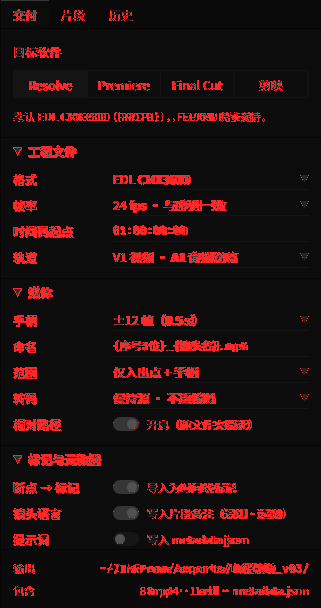
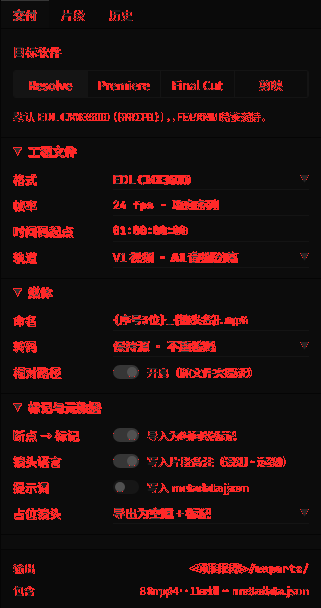
docs(replica): 交付面板按 2026-10-08 新稿重新比对——8.27%，非文字区全 0
基准图从新稿重渲染（旧的那张是旧稿裁的，不能用）。块框仍是 (1278, 67) 321×608，
面板总高由上半区 flex 余量撑出，没随内容变短而变。

| 区域 | 差异 |
|---|---|
| 页签条右侧空白 / 面板左右内边距 / 分段控件框 / 检查块露出的空档 | **0%** |
| 四个开关 | **0.36%** |
| 整块 321×608 | **8.27%**（旧稿那版 8.75%） |

四条分隔线落点整体上移 52px（137 / 278 / 393 / 534），与稿逐行相同。

±1px 平移要说清楚：dx−1 是 8.19%，比 dx0 的 8.27% 好 0.08pp。那 0.08pp **全来自
回落中文字体的字形墨迹右偏约 1px**——同一次平移会把四个开关从 0.36% 打到 7.78%。
结构锚点看图形不看字形墨迹，所以取 dx0。

一个反直觉的点：媒体组减两行后「交付前检查」确实进了视口 14.5px，但那 14 行里
**一个字都没有**——12px 内边距加标题行上方 2.5px 的行上空白，稿与复刻都是纯底色
（逐行扫过确认）。画上它对像素没有影响，但结构得对。

diff --git a/docs/design/handoff-2026-09/README.md b/docs/design/handoff-2026-09/README.md
@@ -559,7 +559,7 @@ powershell -File scripts/replica_crop.ps1 -In ref_tall.png -Out ref.png -X 48 -Y
 | 镜头语言（P3 接线后，画布标签 1600×1000，选中「镜头 03 · 图转视频」） | 不比对（P3 没有稿；验收看检查器截图一张，`shot_language_wired_1600x1000.png`） | 检查器「镜头运动」五行：运镜 推镜 / 景别 中景 MS / 机位角度 平视 Eye Level / 运镜幅度 0.35 / 焦段 35mm（夹具取稿原文）；提示词条摘要多「中景 MS · 35mm」两段；运镜下拉不再按 provider 能力位隐藏（此前所有 provider 都没声明 supportedCameras，下拉从未出现过）；画布 golden 随之重铸 |
 | 首启向导（静态复刻，Screens 稿第 4 屏左，642×492） | **4.31%**；**非文字区域全部 0%** | ✅ 通过（2026-10-08，按 PLAN 新口径：非文字区 ≤ 2.5% + 附 ±1px 平移）。基准图已按 2026-10-08 新稿重渲染——那句 BYOK 文案改成「InkFrame 使用你自己的 API 密钥（BYOK），不加价。…」，自然宽 457.8 → 517.6px，在 592 的正文区里**仍是单行**，卡片高 491.594 不变（换回旧句再量一次也是同一个高）。分区量：步骤条右侧空白 / 当前步 2px 琥珀条 / 正文左右留白 / 说明↔分组框空隙 / Key 输入底线 **均 0%**，单选圈 0.68%（14px 圆的抗锯齿），底部条中段 0.15%（文字渗入）。±1px 四向平移全部更差（4.53 / 4.98 / 4.98 / 5.37%），当前对齐即最优。两处照抄稿的光栅：①整体下移 0.203px——卡在稿页面上的 y 是 3400.203，基准图从整数行 3400 起裁，不这么做琥珀下划线的两条软边会整条判为差异（33.3% → **0%**）；②页签宽按稿 76/100/100 钉死并让内容溢出到 16px 内边距（回落中文字体每个页签比稿宽 1px，硬塞会撞 RenderFlex 溢出） |
 | 批量结果（接线后，画布标签 1600×1000 与 960×600，稿数据播种：`seedBatchFixture` 在画布 02 放一个 image config + 批量 result 容器 + 四态 slot，选中容器） | 01 检查器内联块（302×408，与稿同坐标裁）**8.92%**（静态 4.08%）。02/03c 是浮层与对话框，夹具不开，只给整屏图 | 升幅全在「无字段 / 真实数据长度」两类，几何逐行对齐（见 `batch_wired_01_compare.png`：标签条 / 节点头 / 「批量结果」行 / 两行格 / 按钮 / 脚注的 y 全部一致）。四条：①节点头稿写「镜头 05 · 松林 / image / result · flux-pro-1.1」，应用写「图片 / image / result」——批量的 result 节点**没有标签**（生产就是空串）、身上也**没有 provider_id**；②失败格稿写「内容被拦截」一行，应用写真实本地化文案「提示词未通过服务商内容审核…」两行（真实数据长度）；③稿的「全部派生节点」按钮**不做**，所以只剩「重跑失败 slot」独占一行；④标签条右端多一个 ≡（真实面板的菜单字形，稿的独立卡没画）。角色库块不做像素比对：稿的 03b 是 262 宽独立卡，真实左栏是 241（240 + 1px 右沿），宽度对不上，比了没有意义 |
-| 交付面板（静态复刻，Timeline 稿上半右栏，321×608） | **8.75%**；**纯图形区 0～0.48%** | 待用户验收（2026-10-01，P6）。几何逐像素对齐：五条横线（页签条下沿 28 / 三条分组分隔 137·278·445 / 底部条上沿 549）与稿**逐行相同**；四个开关 0.48%、分段控件框 0%、面板左右内边距与页签条右侧空白**全 0%**。**参考图上这一栏是被滚动区裁过的**——滚动内容 557.5 高、可视只有 520，「占位镜头」整行与「提示词」行底部 2.5px 在稿上就看不见，复刻同样裁（稿的「交付前检查」块整块滚出视口，不画）。±1px 平移：dx−1 **8.68%** 略优于 dx0 8.75%，但那 0.07pp 全来自回落中文字体的字形墨迹右偏约 1px——同一次平移会把开关从 0.48% 打到 **11.49%**。结构锚点看图形不看字形墨迹，故取 dx0。两处照抄稿的光栅：①说明行 11×1.5=16.5 取 17（Chromium 把这半像素连同块高一起向上取整，下沿才落在第 137 行）；②面板用 Container 不用 DecoratedBox（后者只画边框不占位，1px 左沿会盖掉内容第一列，整栏左移）|
+| 交付面板（静态复刻，Timeline 稿上半右栏，321×608） | **8.27%**；**非文字区全 0%，开关 0.36%** | ✅ 通过（2026-10-08，按新口径）。基准图已按 2026-10-08 新稿重渲染：「手柄」「范围」两行删掉（进 PLAN 不做清单——生成的媒体两端没有余量可取）、帧率从下拉改只读等宽「24 fps · 取自序列」、路径改 `<项目目录>/exports/`、剪映加「待支持」、预检 4 条减到 3 条（2 项待处理 → 1 项）。媒体组 167 → **115**，滚动区内容 734.8 → **640.1**，四条分隔线落点整体上移 52px（137 / 278 / 393 / 534）。**原本整块滚出视口的「交付前检查」现在露出 14.5px**——但那 14 行里一个字都没有（12 内边距 + 标题行上方 2.5px 的行上空白），稿与复刻都是纯底色，逐行扫过确认。分区量：页签条右侧空白 / 面板左右内边距 / 分段控件框 / 检查块露出的空档 **均 0%**，四个开关 0.36%。±1px 平移：dx−1 **8.19%** 略优于 dx0 8.27%，但那 0.08pp 全来自回落中文字体的字形墨迹右偏约 1px——同一次平移会把开关从 0.36% 打到 **7.78%**。结构锚点看图形不看字形墨迹，故取 dx0。两处照抄稿的光栅：①说明行 11×1.5=16.5 取 17（Chromium 把这半像素连同块高一起向上取整）；②面板用 Container 不用 DecoratedBox（后者只画边框不占位，1px 左沿会盖掉内容第一列） |
 | 泳道（接线后，画布标签 1600×1000 与 960×600，稿数据播种 + 夹具泳道带 stylePrompt） | 与 Workspace v2 稿比 7.16%（S2b 时 5.45%；升幅是泳道画法整个换了：稿上是 11px 灰字，已作废） | 预期内偏离（P1）：稿的两行 line-height 1.2 在 26 栏里溢出 1.4px 是稿的问题，接线与静态复刻都改 1.15（用户拍板）；折叠道 36 轨里标题栏垂直居中（稿上 top 12 会压到下一道）；「继承」行对所有卡片预留 19px（卡片 172 → 191，无道节点留空），画布 golden 与 node_card golden 因此重铸；夹具节点贴道顶放置时会被 +14 的标题栏压住（数据位置，非布局）。960×600 只看得见第一条道与提示词条 |
 | 设置浮层（静态复刻，Screens 稿第 3 屏） | 1.45%（字形抗锯齿 + 滑杆 1px 相位 + 分组框底沿 1px） | 用户验收通过（2026-09-24，1.44% 时验收；稿把 #B04030 同步成 #D25A4A 后重比 1.45%）。屏在 Screens 整页截图 (48,2252)。#1F1F1F 底（左导航 / 分组框）就近取 surface2；内容列按稿 overflow: auto 放进滚动视图 |
 | 设置浮层（接线后，Studio 稿数据播种 + 浮层停在 API 密钥页） | 4.46%（底下是真 Studio 而非稿的线格；表只有 4 行） | 预期内偏离：无字段不画（区域列 / 已验证 · 余额不足 · 连接失败 / Key 尾 4 位 / 全部重新验证 / 并发与配额 / 快捷键 · 性能 · 网络三页）；语言并入常规页；保存 / 清除按钮是稿上没有、接线必需的；截图 app 用真平台安全存储，不播种 Key ⇒ 全部「– 未配置」；自定义服务商列表在表下方（稿上是同一张表的行）。四条拍板的验收见 `test/features/settings/settings_overlay_test.dart` |
